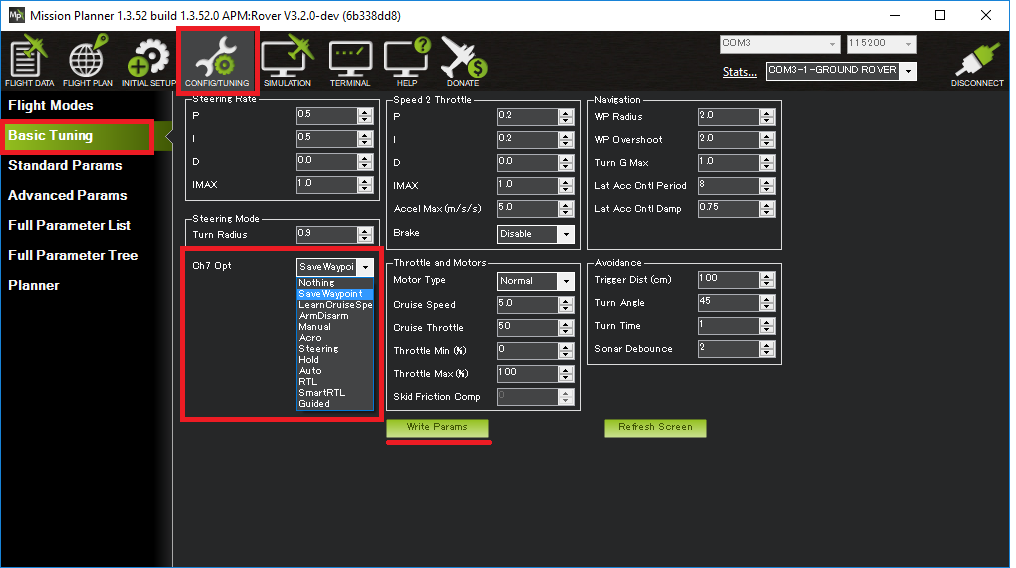
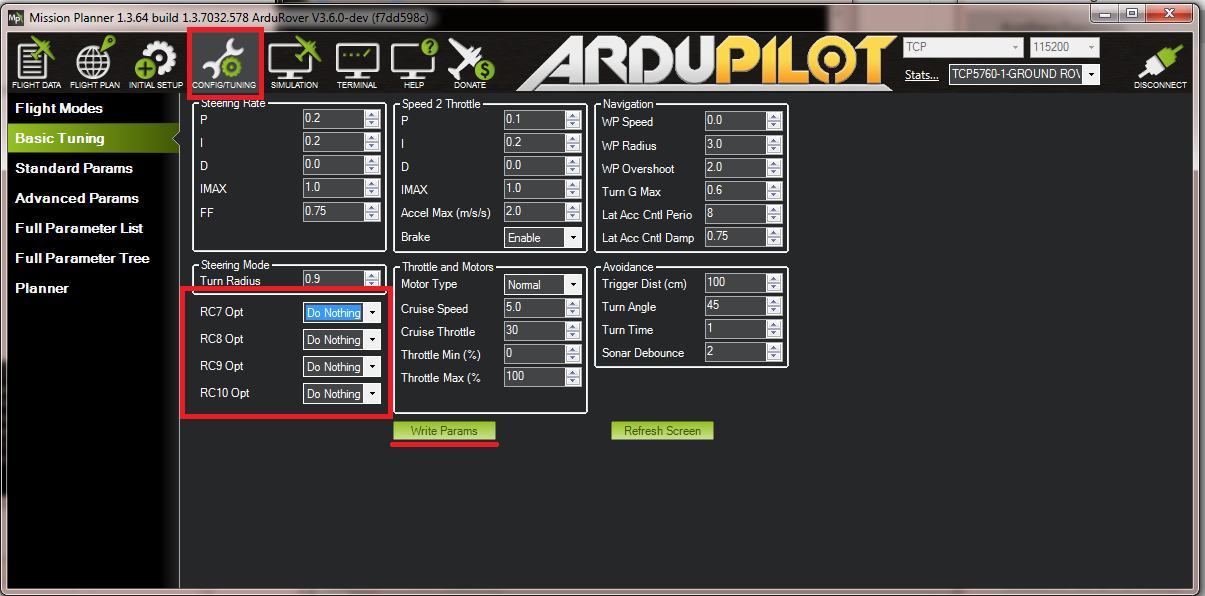
rover: update Aux function page

diff --git a/rover/source/docs/rover-auxiliary-functions.rst b/rover/source/docs/rover-auxiliary-functions.rst
@@ -4,20 +4,21 @@
 Auxiliary Functions
 ===================
 
-This page describes how to set up additional features which can be invoked from the transmitter's auxiliary function switch (normally channel 7).
+This page describes how to set up additional features which can be invoked from the transmitter's auxiliary function switches.
 
 Configuring which transmitter channel is used
 =============================================
 
-By default the channel 7 is used but this can be changed to another channel by setting the :ref:`AUX_CH <AUX_CH>` parameter.
-For example, if you would prefer to use channel 9, set :ref:`AUX_CH <AUX_CH>` to "9".
+Any RC input channel can be assigned any auxiliary function. However the RC channel should not be used by any other 
+function. Typically channels above 7 are free to be used for auxiliary functions.
 
 Assigning the Feature
 =====================
 
-The :ref:`CH7_OPTION <CH7_OPTION>` parameter controls which feature is assigned to the auxiliary switch.  By default this is the "Save Waypoint" feature.
+The :ref:`RC7_OPTION <RC7_OPTION>` parameter controls which feature is assigned to RC input 7. Each RC channel has its 
+own RCx_OPTION parameter that can be accessed in the full parameter list.
 
-If using the Mission Planner, the Config/Tuning >> Basic Tuning's "Ch7 Opt" drop-down can be used to easily set the desired feature.
+If using the Mission Planner, the Config/Tuning >> Basic Tuning's "RC7 Opt", "RC8 Opt, "RC9 Opt" and "RC10 Opt" drop-down can be used to easily set the desired feature.
 
 .. image:: ../images/rover-auxiliary-functions-MP.png
     :target: ../_images/rover-auxiliary-functions-MP.png
@@ -25,88 +26,71 @@ If using the Mission Planner, the Config/Tuning >> Basic Tuning's "Ch7 Opt" drop
 Supported Features
 ==================
 
-.. raw:: html
-
-   <table border="1" class="docutils">
-   <tbody>
-   <tr>
-   <th>CH7_OPTION</th>
-   <th>Feature</th>
-   <th>Description</th>
-   </tr>
-   <tr>
-   <td>0</td>
-   <td><strong>Disabled</strong></td>
-   <td>No feature assigned
-   </td>
-   </tr>
-   <tr>
-   <td>1</td>
-   <td><strong>Save Waypoint</strong></td>
-   <td>The vehicle's position will be stored as a new waypoint in the mission command list.  Use Auto mode later to return to this location
-   </td>
-   </tr>
-   <tr>
-   <td>2</td>
-   <td><strong>Learn Cruise Speed</strong></td>
-   <td>Record the vehicle's speed and throttle to the CRUISE_SPEED and CRUISE_THROTTLE parameters
-   </td>
-   </tr>
-   <tr>
-   <td>3</td>
-   <td><strong>Arm / Disarm</strong></td>
-   <td>Arm or Disarm the vehicle
-   </td>
-   </tr>
-   <tr>
-   <td>4</td>
-   <td><strong>Manual</strong></td>
-   <td>Change to Manual mode
-   </td>
-   </tr>
-   <tr>
-   <td>5</td>
-   <td><strong>Acro</strong></td>
-   <td>Change to Acro mode
-   </td>
-   </tr>
-   <tr>
-   <td>6</td>
-   <td><strong>Steering</strong></td>
-   <td>Change to Steering mode
-   </td>
-   </tr>
-   <tr>
-   <td>7</td>
-   <td><strong>Hold</strong></td>
-   <td>Change to Hold mode
-   </td>
-   </tr>
-   <tr>
-   <td>8</td>
-   <td><strong>Auto</strong></td>
-   <td>Change to Auto mode
-   </td>
-   </tr><tr>
-   <td>9</td>
-   <td><strong>RTL</strong></td>
-   <td>Change to RTL mode
-   </td>
-   </tr>
-   <tr>
-   <td>10</td>
-   <td><strong>SmartRTL</strong></td>
-   <td>Change to SmartRTL mode
-   </td>
-   </tr>
-   <tr>
-   <td>11</td>
-   <td><strong>Guided</strong></td>
-   <td>Change to Guided mode
-   </td>
-   </tr>
-   </tbody>
-   </table>
++----------------------+----------------------------+
+| **RCx_OPTION value** | **Feature Description**    |
++----------------------+----------------------------+
+|        0             | Do Nothing                 |
++----------------------+----------------------------+
+|        4             | RTL mode                   |
++----------------------+----------------------------+
+|        7             | Save WP                    |
++----------------------+----------------------------+
+|        9             | Camera Trigger             |
++----------------------+----------------------------+
+|        16            | Auto mode                  |
++----------------------+----------------------------+
+|        19            | Gripper                    |
++----------------------+----------------------------+
+|        28            | Relay 1 On/off             |
++----------------------+----------------------------+
+|        30            | Lost Rover Sound           |
++----------------------+----------------------------+
+|        31            | Motor Emergency Stop       |
++----------------------+----------------------------+
+|        34            | Relay 2 On/Off             |
++----------------------+----------------------------+
+|        35            | Relay 3 On/Off             |
++----------------------+----------------------------+
+|        36            | Relay 4 On/Off             |
++----------------------+----------------------------+
+|        40            | Proximity Avoidance        |
++----------------------+----------------------------+
+|        41            | Arm Disarm                 |
++----------------------+----------------------------+
+|        42            | SmartRTL mode              |
++----------------------+----------------------------+
+|        46            | RC Override Enable         |
++----------------------+----------------------------+
+|        50            | LearnCruise                |
++----------------------+----------------------------+
+|        51            | Manual mode                |
++----------------------+----------------------------+
+|        52            | Acro mode                  |
++----------------------+----------------------------+
+|        53            | Steering mode              |
++----------------------+----------------------------+
+|        54            | Hold mode                  |
++----------------------+----------------------------+
+|        55            | Guided mode                |
++----------------------+----------------------------+
+|        56            | Loiter mode                |
++----------------------+----------------------------+
+|        57            | Follow mode                |
++----------------------+----------------------------+
+|        58            | Clear Waypoints            |
++----------------------+----------------------------+
+|        59            | Simple mode                |
++----------------------+----------------------------+
+|        62            | Compass Learn              |
++----------------------+----------------------------+
+|        63            | Sailboat Tack              |
++----------------------+----------------------------+
+|        65            | GPS Disable                |
++----------------------+----------------------------+
+|        66            | Relay 5 On/Off             |
++----------------------+----------------------------+
+|        67            | Relay 5 On/Off             |
++----------------------+----------------------------+
 
 Check the channel range
 =======================
